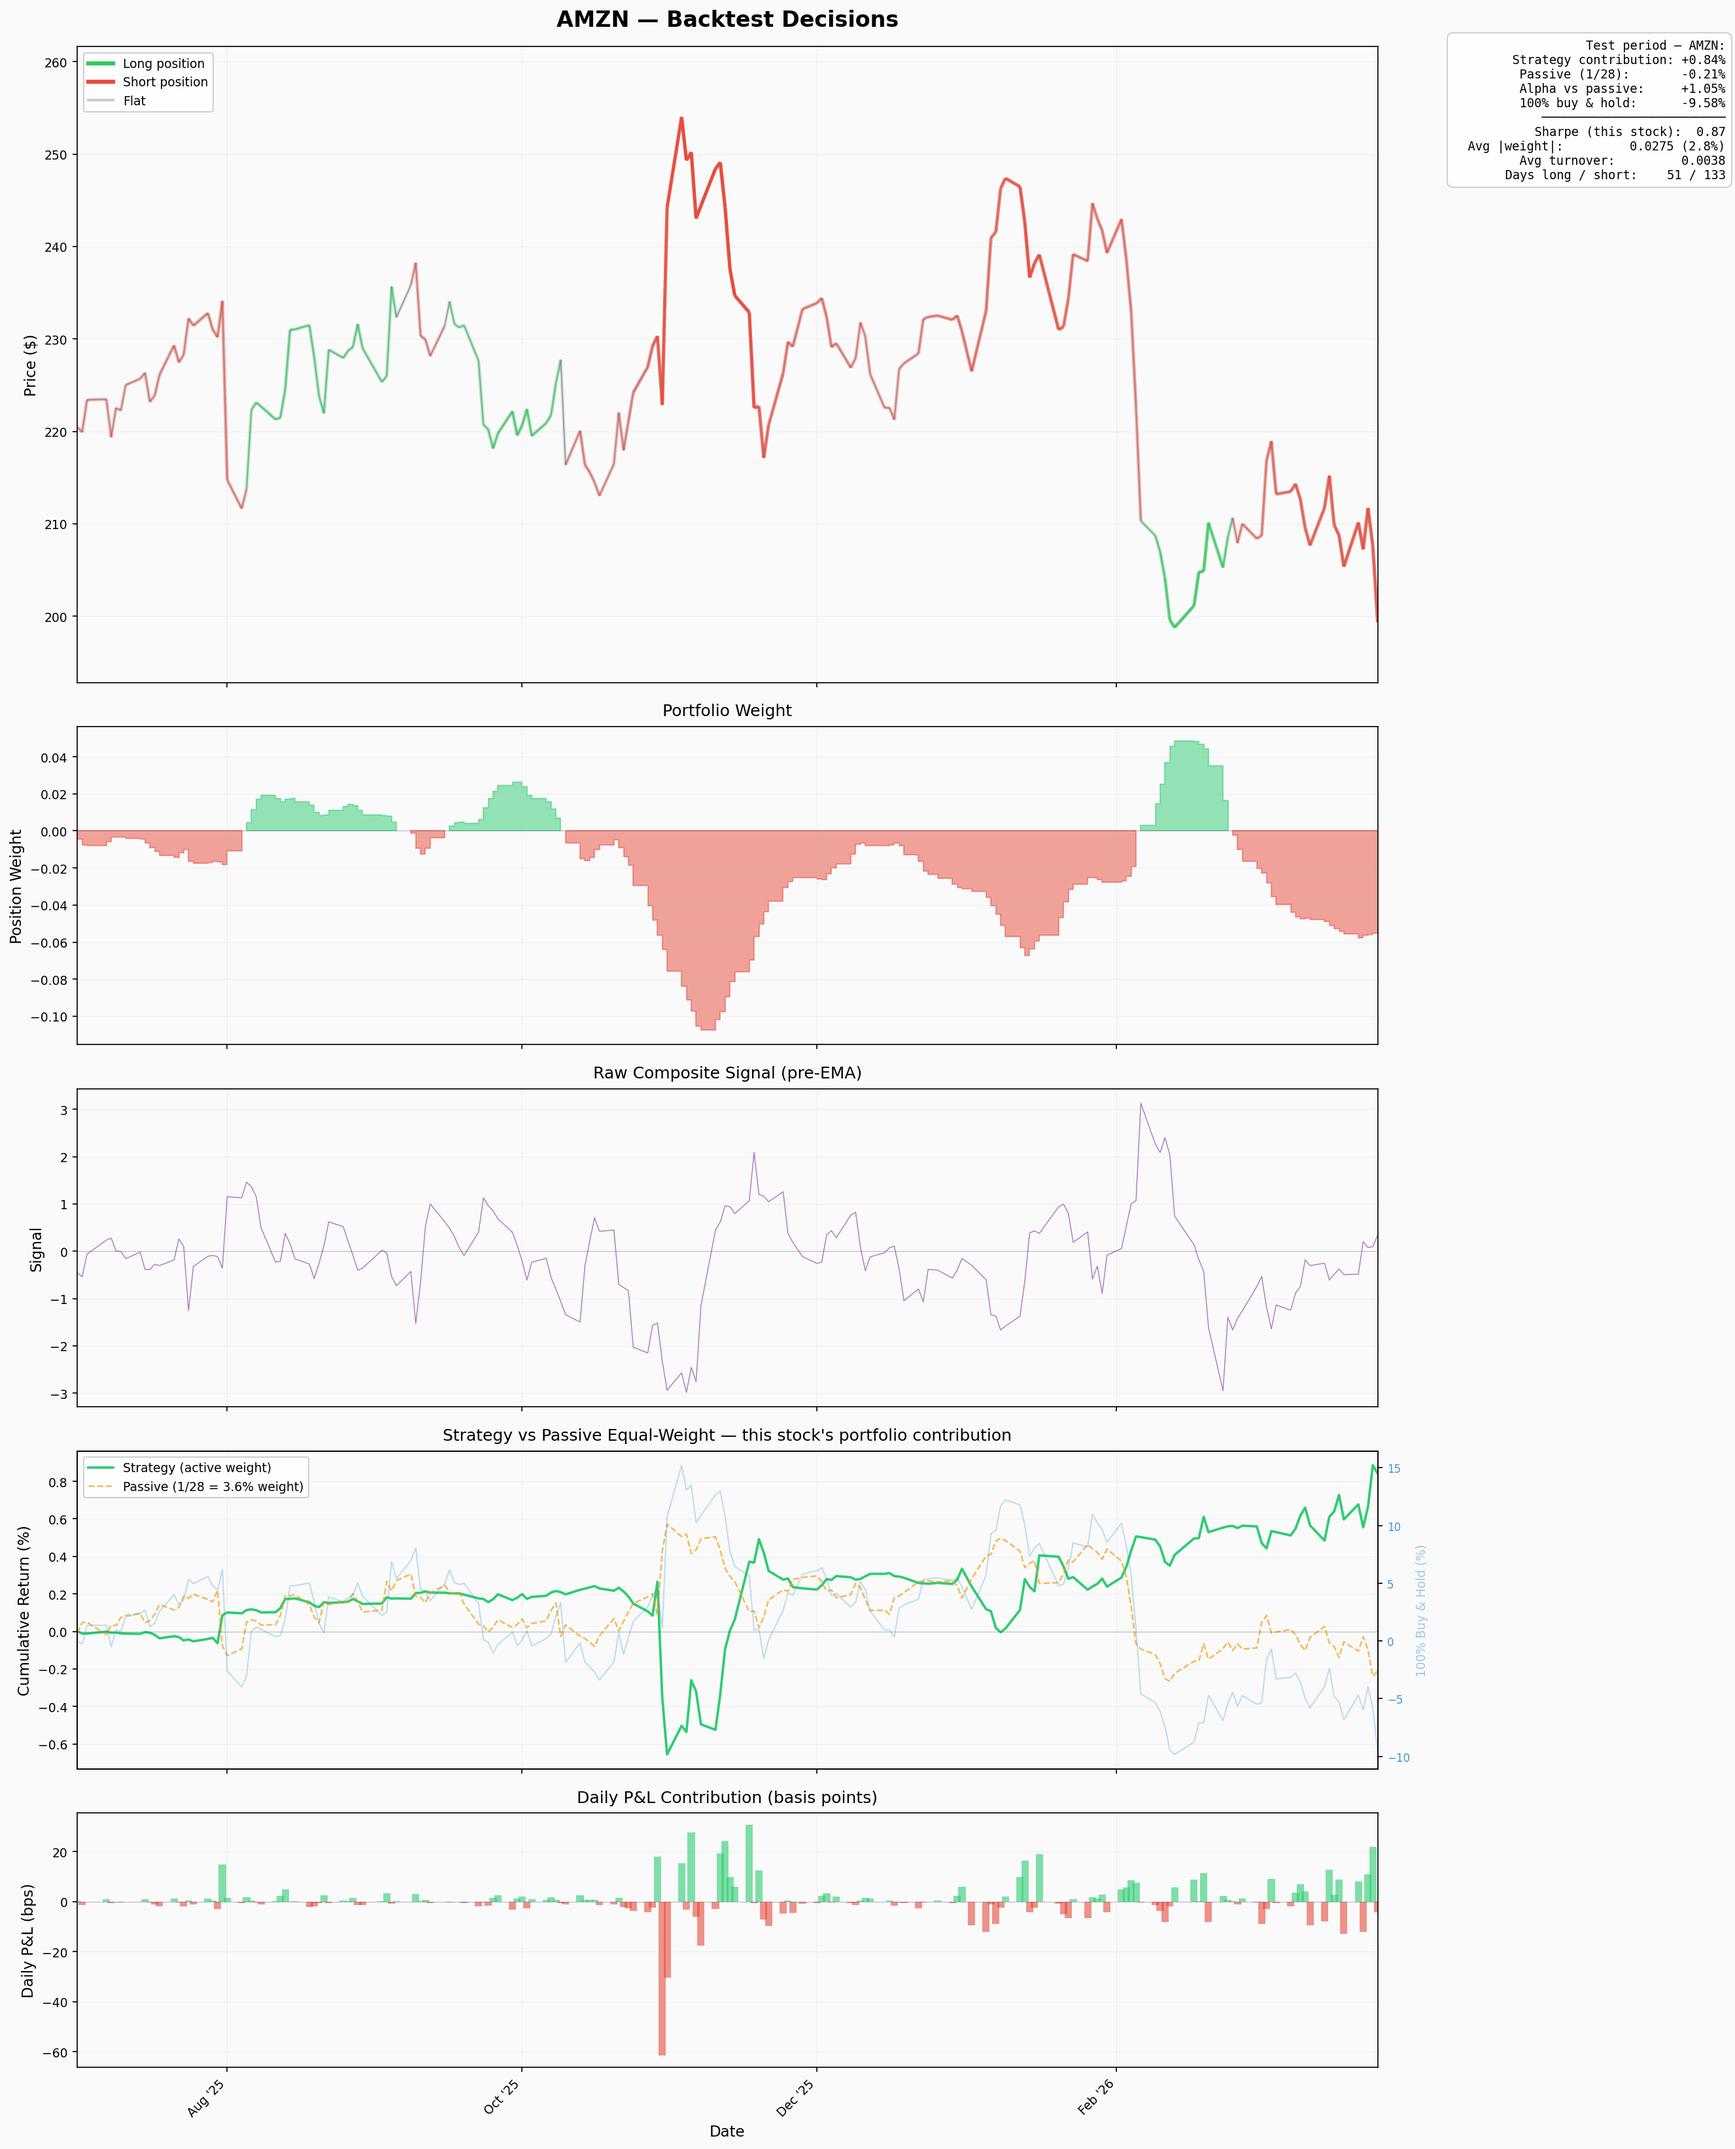
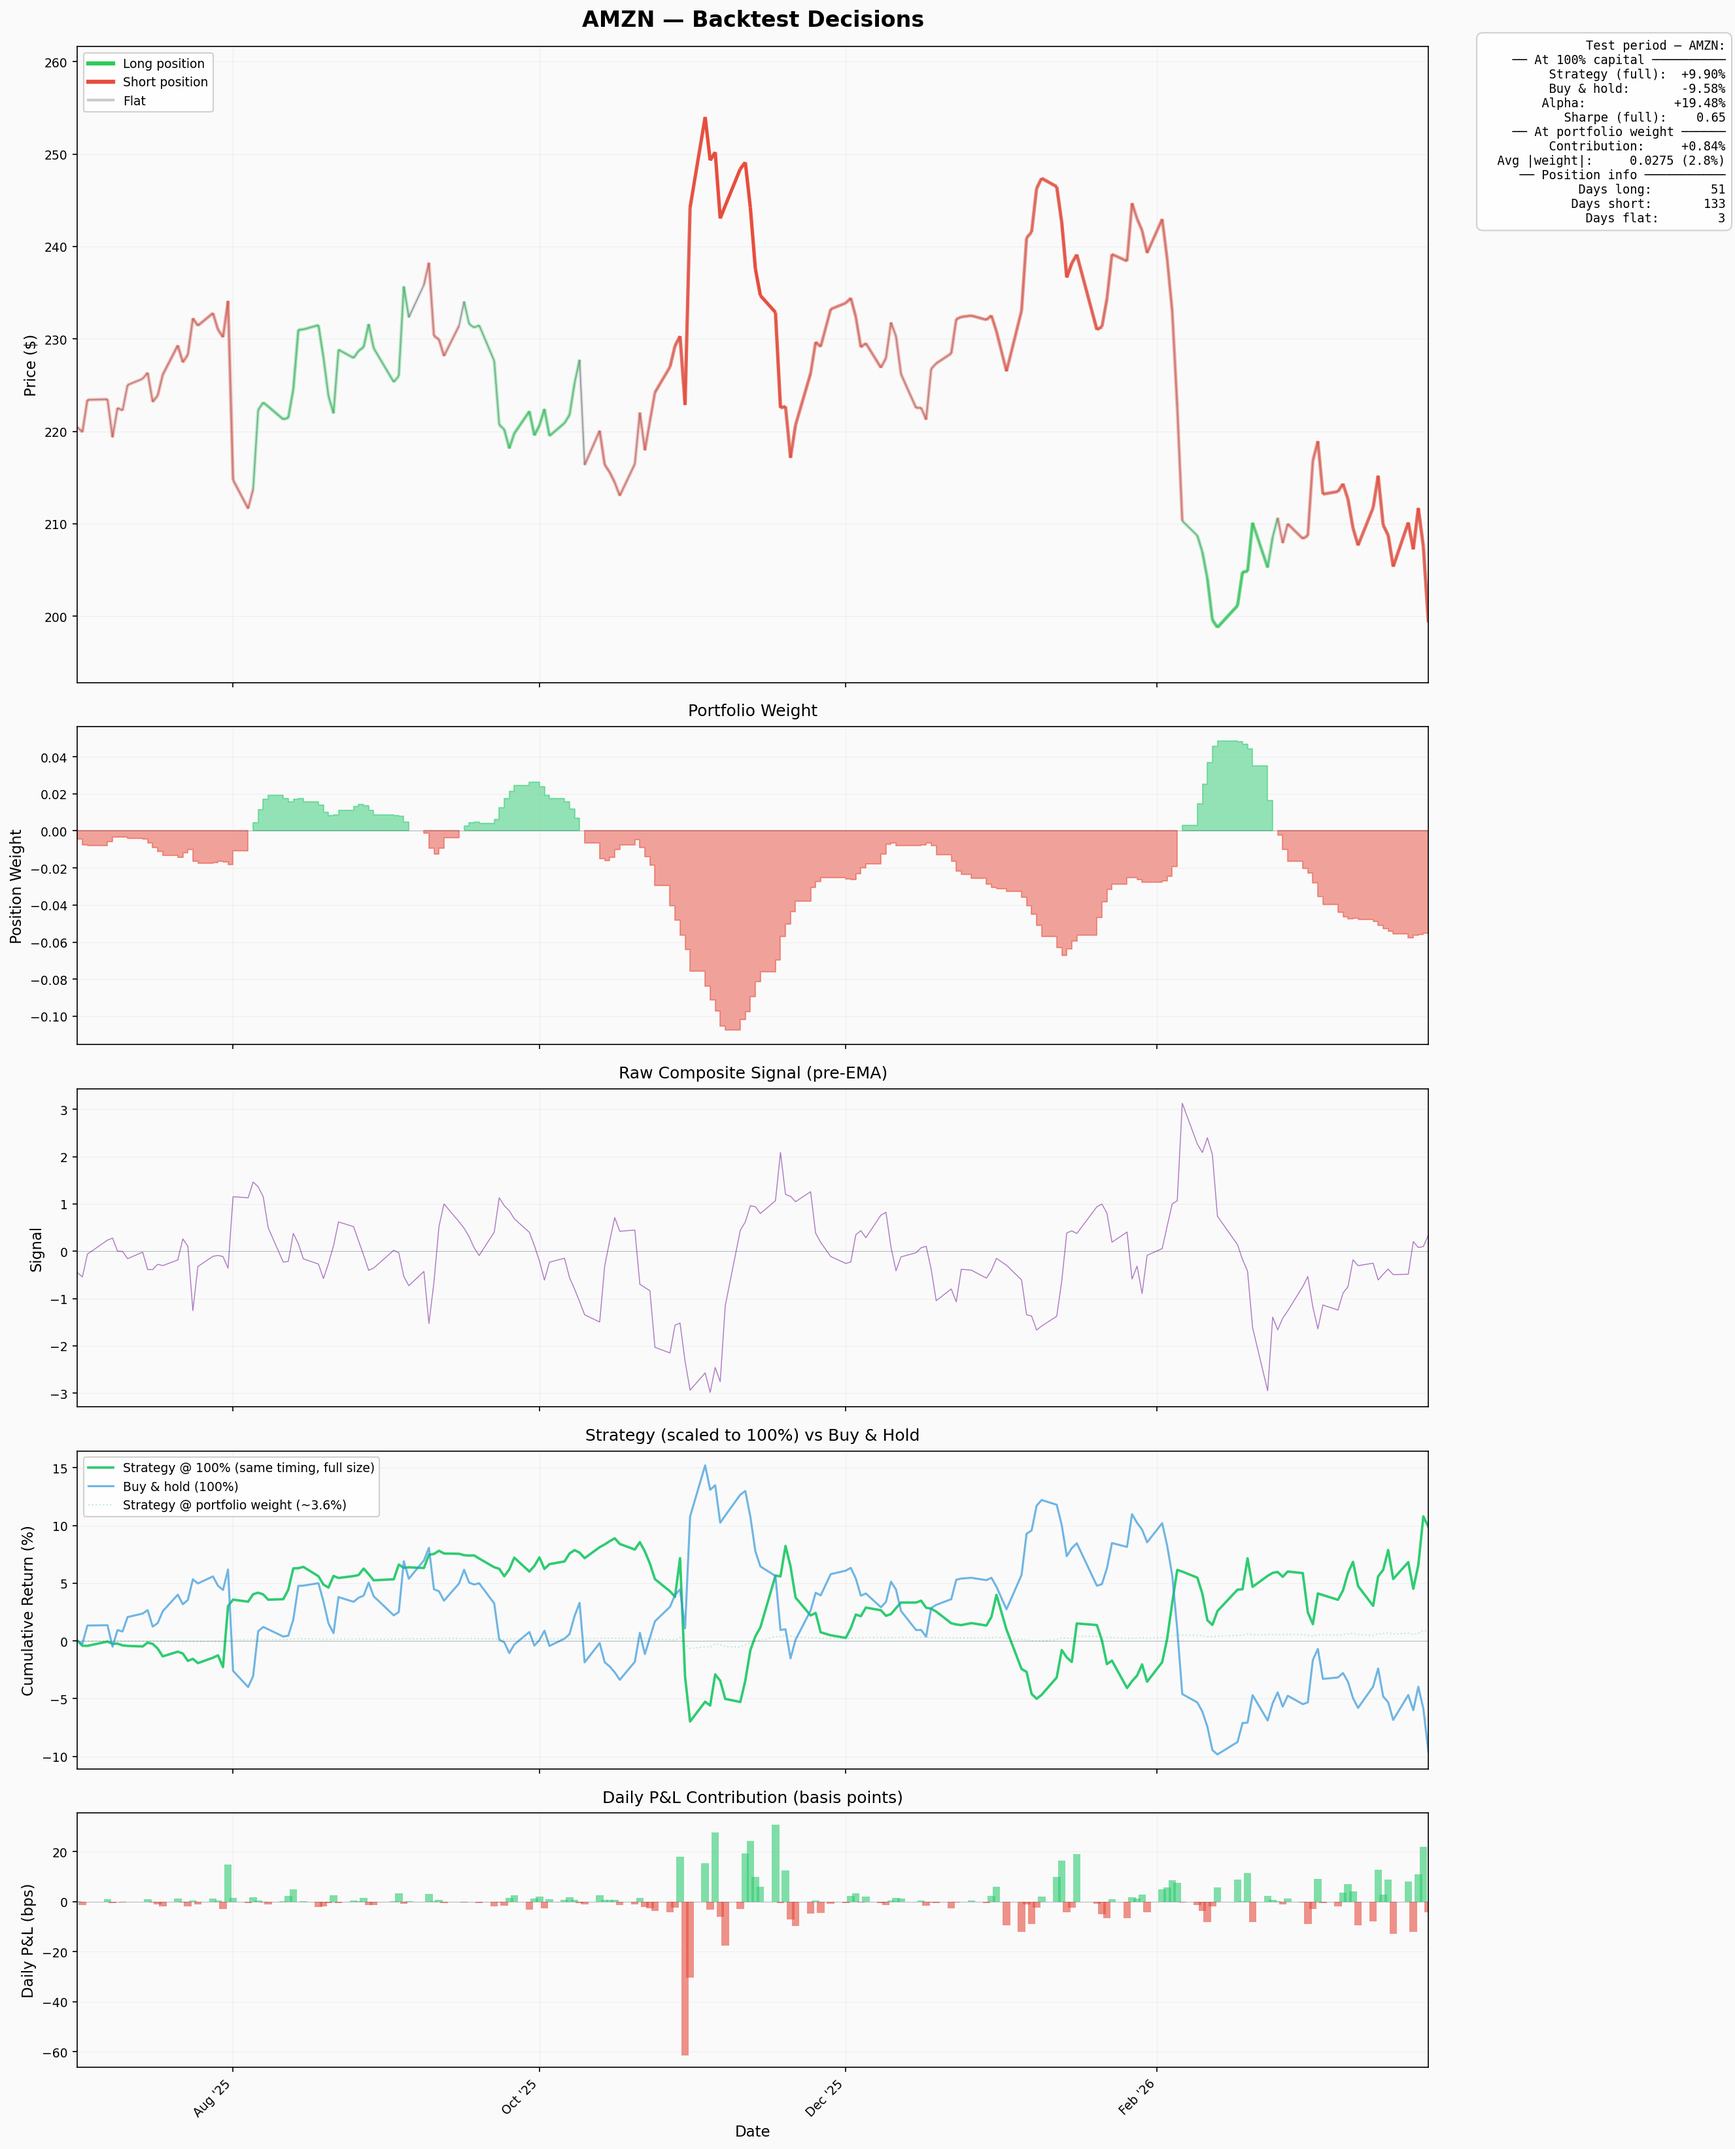
updated vis

diff --git a/visualise.py b/visualise.py
@@ -184,9 +184,22 @@ def plot_stock(data, weights, signals, ticker, show_train=False):
     passive_weight = 1.0 / N_trade
     passive_pnl = passive_weight * fwd
 
+    # Full-size strategy: same timing/direction, but scaled to 100% capital
+    # Rescale position so average |weight| = 1.0, capped at [-1, 1]
+    avg_abs_pos = np.abs(pos).mean()
+    if avg_abs_pos > 1e-8:
+        full_pos = np.clip(pos / avg_abs_pos, -1.0, 1.0)
+    else:
+        full_pos = np.zeros_like(pos)
+    full_turnover = np.zeros_like(full_pos)
+    full_turnover[1:] = np.abs(full_pos[1:] - full_pos[:-1])
+    full_tc = TRANSACTION_COST_BPS / 10000 * full_turnover
+    full_pnl = full_pos * fwd - full_tc
+
     # Cumulative returns
     cum_strategy = np.cumprod(1 + daily_pnl) - 1
     cum_passive = np.cumprod(1 + passive_pnl) - 1
+    cum_full = np.cumprod(1 + full_pnl) - 1
     buy_hold_ret = price / price[0] - 1
 
     # Mark test boundary
@@ -264,21 +277,18 @@ def plot_stock(data, weights, signals, ticker, show_train=False):
     ax.set_ylabel("Signal", fontsize=11)
     ax.set_title("Raw Composite Signal (pre-EMA)", fontsize=12, pad=8)
 
-    # Panel 4: Cumulative P&L — fair comparison at portfolio-weight scale
+    # Panel 4: Full-size strategy vs buy-and-hold (both at 100% capital)
     ax = axes[3]
-    ax.plot(d, cum_strategy * 100, color="#2ecc71", linewidth=1.8,
-            label=f"Strategy (active weight)")
-    ax.plot(d, cum_passive * 100, color="#f39c12", linewidth=1.2, alpha=0.7,
-            linestyle="--", label=f"Passive (1/{N_trade} = {passive_weight:.1%} weight)")
+    ax.plot(d, cum_full * 100, color="#2ecc71", linewidth=1.8,
+            label=f"Strategy @ 100% (same timing, full size)")
+    ax.plot(d, buy_hold_ret * 100, color="#3498db", linewidth=1.5, alpha=0.7,
+            label="Buy & hold (100%)")
+    ax.plot(d, cum_strategy * 100, color="#2ecc71", linewidth=1.0, alpha=0.3,
+            linestyle=":", label=f"Strategy @ portfolio weight (~{passive_weight:.1%})")
     ax.axhline(0, color="#2c3e50", linewidth=0.5, alpha=0.3)
     ax.set_ylabel("Cumulative Return (%)", fontsize=11)
-    ax.set_title(f"Strategy vs Passive Equal-Weight — this stock's portfolio contribution", fontsize=12, pad=8)
+    ax.set_title("Strategy (scaled to 100%) vs Buy & Hold", fontsize=12, pad=8)
     ax.legend(fontsize=9, loc="upper left", framealpha=0.9)
-    # Secondary axis: 100% buy-and-hold for context
-    ax2 = ax.twinx()
-    ax2.plot(d, buy_hold_ret * 100, color="#3498db", linewidth=1.0, alpha=0.3)
-    ax2.set_ylabel(f"100% Buy & Hold (%)", fontsize=9, color="#3498db", alpha=0.5)
-    ax2.tick_params(axis="y", labelcolor="#3498db", labelsize=8)
 
     # Panel 5: Daily P&L bars
     ax = axes[4]
@@ -298,25 +308,28 @@ def plot_stock(data, weights, signals, ticker, show_train=False):
     test_mask = np.array([i >= (test_start - start) for i in range(len(d))])
     if test_mask.any():
         test_pnl = daily_pnl[test_mask]
-        test_passive = passive_pnl[test_mask]
-        test_sr = (test_pnl.mean() / test_pnl.std() * np.sqrt(252)) if test_pnl.std() > 1e-10 else 0
+        test_full_pnl = full_pnl[test_mask]
         test_cum = np.prod(1 + test_pnl) - 1
-        passive_cum = np.prod(1 + test_passive) - 1
+        full_cum = np.prod(1 + test_full_pnl) - 1
         bh_cum = price[test_mask][-1] / price[test_mask][0] - 1
+        full_sr = (test_full_pnl.mean() / test_full_pnl.std() * np.sqrt(252)) if test_full_pnl.std() > 1e-10 else 0
         avg_pos = np.mean(np.abs(pos[test_mask]))
-        avg_turn = np.mean(turnover[test_mask])
+        avg_full_pos = np.mean(np.abs(full_pos[test_mask]))
 
         stats_text = (
             f"Test period — {ticker}:\n"
-            f"  Strategy contribution: {test_cum*100:+.2f}%\n"
-            f"  Passive (1/{N_trade}):       {passive_cum*100:+.2f}%\n"
-            f"  Alpha vs passive:     {(test_cum - passive_cum)*100:+.2f}%\n"
-            f"  100% buy & hold:      {bh_cum*100:+.2f}%\n"
-            f"  ─────────────────────────\n"
-            f"  Sharpe (this stock):  {test_sr:.2f}\n"
-            f"  Avg |weight|:         {avg_pos:.4f} ({avg_pos*100:.1f}%)\n"
-            f"  Avg turnover:         {avg_turn:.4f}\n"
-            f"  Days long / short:    {np.sum(pos[test_mask] > 0.001)} / {np.sum(pos[test_mask] < -0.001)}"
+            f"  ── At 100% capital ──────────\n"
+            f"  Strategy (full):  {full_cum*100:+.2f}%\n"
+            f"  Buy & hold:       {bh_cum*100:+.2f}%\n"
+            f"  Alpha:            {(full_cum - bh_cum)*100:+.2f}%\n"
+            f"  Sharpe (full):    {full_sr:.2f}\n"
+            f"  ── At portfolio weight ──────\n"
+            f"  Contribution:     {test_cum*100:+.2f}%\n"
+            f"  Avg |weight|:     {avg_pos:.4f} ({avg_pos*100:.1f}%)\n"
+            f"  ── Position info ───────────\n"
+            f"  Days long:        {np.sum(pos[test_mask] > 0.001)}\n"
+            f"  Days short:       {np.sum(pos[test_mask] < -0.001)}\n"
+            f"  Days flat:        {np.sum(np.abs(pos[test_mask]) <= 0.001)}"
         )
         fig.text(0.98, 0.98, stats_text, transform=fig.transFigure,
                  fontsize=9, verticalalignment="top", horizontalalignment="right",
